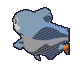
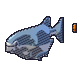
audit-74 fixes: serpent/deer sibling species render root causes
Cold review of S122 found the showcase fixes never propagated — 9
siblings kept the diagnosed bad defaults. Rotation probe proved the
convention itself wrong: rot -90 faced Piranha head-on (tidscale too);
rot 0 is the side profile.

- serpent template: rot 0, Swimming(10,30), target_h 1.35, body-level
  fins accessory, eyes seated (fwd .05/up .06)
- deer template: rot 90 profile, frames (20,80) graze
- tidscale hand entry: rot -90→0, eye_fwd .10→.05
- all 10 species re-rendered+posted; serpent fill .11→.33, fish/horse
  silhouettes now read at 80px (sheets: s122-kin-serp/after2)
- in-game evidence noctfang+petalantler, all evidence .import sidecars
- ROADMAP S122 entry + audit-74 remediation doc

smoke 1049/0/0skip

Generated with [Devin](https://devin.ai)

diff --git a/tools/art/mesh_cfg_gen.py b/tools/art/mesh_cfg_gen.py
@@ -41,10 +41,10 @@ CFG_EXT = {
         "eye_r": 0.05, "eye_gap": 0.11, "eye_fwd": 0.06, "eye_up": -0.1, "target_h": 1.15,
         "subd_wool": 2, "displace": None},
     "loammelt": {"blend": "animal_pack2/Animal Pack Vol.2 by @Quaternius/Blends/Piranha.blend", "mat_map": {"Brown": (0.722, 0.576, 0.373), "LightYellow": (0.902, 0.721, 0.466), "Black": (0.325, 0.259, 0.168), "White": (0.920, 0.920, 0.880)}, 
-        "head_bone": "Bone", "rot_z": -90.0,
-        "action": "Idle", "frames": (5, 25),
-        "eye_r": 0.05, "eye_gap": 0.11, "eye_fwd": 0.1, "eye_up": 0.1, "target_h": 0.8,
-        "subd_wool": 2, "displace": None},
+        "head_bone": "Bone", "rot_z": 0.0,
+        "action": "Swimming", "frames": (10, 30),
+        "eye_r": 0.05, "eye_gap": 0.11, "eye_fwd": 0.05, "eye_up": 0.06, "target_h": 1.35,
+        "subd_wool": 2, "displace": None, "accessory": "fins"},
     "shademite": {"blend": "monsters_basic/Animated Monster Pack by @Quaternius/Blend/Slime.blend", "mat_map": {"Body": (0.435, 0.659, 0.820), "Eyes": (0.090, 0.080, 0.140)}, 
         "head_bone": "Head", "rot_z": 0.0,
         "action": "Slime_Idle", "frames": (5, 25),
@@ -121,10 +121,10 @@ CFG_EXT = {
         "eye_r": 0.05, "eye_gap": 0.11, "eye_fwd": -0.12, "eye_up": 0.1, "target_h": 1.5,
         "subd_wool": 2, "displace": None, "accessory": "crest"},
     "bubwrith": {"blend": "animal_pack2/Animal Pack Vol.2 by @Quaternius/Blends/Piranha.blend", "mat_map": {"Brown": (0.353, 0.722, 0.820), "LightYellow": (0.441, 0.902, 1.000), "Black": (0.159, 0.325, 0.369), "White": (0.920, 0.920, 0.880)}, 
-        "head_bone": "Bone", "rot_z": -90.0,
-        "action": "Idle", "frames": (5, 25),
-        "eye_r": 0.05, "eye_gap": 0.11, "eye_fwd": 0.1, "eye_up": 0.1, "target_h": 0.8,
-        "subd_wool": 2, "displace": None},
+        "head_bone": "Bone", "rot_z": 0.0,
+        "action": "Swimming", "frames": (10, 30),
+        "eye_r": 0.05, "eye_gap": 0.11, "eye_fwd": 0.05, "eye_up": 0.06, "target_h": 1.35,
+        "subd_wool": 2, "displace": None, "accessory": "fins"},
     "frostfang": {"blend": "animal_pack2/Animal Pack Vol.2 by @Quaternius/Blends/Wolf.blend", "mat_map": {"Wolf": (0.561, 0.820, 0.910)}, "nose_r": 0.045, "nose_up": 0.02, 
         "head_bone": "Bone.003", "rot_z": 0.0,
         "action": "Idle", "frames": (5, 25),
@@ -146,10 +146,10 @@ CFG_EXT = {
         "eye_r": 0.05, "eye_gap": 0.11, "eye_fwd": -0.12, "eye_up": 0.1, "target_h": 1.5,
         "subd_wool": 2, "displace": None},
     "ripwrith": {"blend": "animal_pack2/Animal Pack Vol.2 by @Quaternius/Blends/Piranha.blend", "mat_map": {"Brown": (0.302, 0.490, 0.722), "LightYellow": (0.377, 0.613, 0.902), "Black": (0.136, 0.221, 0.325), "White": (0.920, 0.920, 0.880)}, 
-        "head_bone": "Bone", "rot_z": -90.0,
-        "action": "Idle", "frames": (5, 25),
-        "eye_r": 0.05, "eye_gap": 0.11, "eye_fwd": 0.1, "eye_up": 0.1, "target_h": 0.8,
-        "subd_wool": 2, "displace": None},
+        "head_bone": "Bone", "rot_z": 0.0,
+        "action": "Swimming", "frames": (10, 30),
+        "eye_r": 0.05, "eye_gap": 0.11, "eye_fwd": 0.05, "eye_up": 0.06, "target_h": 1.35,
+        "subd_wool": 2, "displace": None, "accessory": "fins"},
     "bubgoo": {"blend": "monsters_basic/Animated Monster Pack by @Quaternius/Blend/Slime.blend", "mat_map": {"Body": (0.353, 0.553, 0.690), "Eyes": (0.090, 0.080, 0.140)}, 
         "head_bone": "Head", "rot_z": 0.0,
         "action": "Slime_Idle", "frames": (5, 25),
@@ -186,8 +186,8 @@ CFG_EXT = {
         "eye_r": 0.05, "eye_gap": 0.11, "eye_fwd": -0.12, "eye_up": 0.1, "target_h": 1.45,
         "subd_wool": 2, "displace": None},
     "petalantler": {"blend": "farm_animals/Farm Animals by @Quaternius/Blends/Horse.blend", "mat_map": {"Material.003": (0.659, 0.788, 0.478), "Material.006": (0.296, 0.355, 0.215)}, "nose_r": 0.045, "nose_up": 0.02, 
-        "head_bone": "Head", "rot_z": 0.0,
-        "action": "Idle", "frames": (5, 25),
+        "head_bone": "Head", "rot_z": 90.0,
+        "action": "Idle", "frames": (20, 80),
         "eye_r": 0.05, "eye_gap": 0.11, "eye_fwd": -0.14, "eye_up": 0.1, "target_h": 1.55,
         "subd_wool": 2, "displace": None},
     "leaftrot": {"blend": "animal_pack2/Animal Pack Vol.2 by @Quaternius/Blends/Wolf.blend", "mat_map": {"Wolf": (0.788, 0.722, 0.820)}, "nose_r": 0.045, "nose_up": 0.02, 
@@ -241,8 +241,8 @@ CFG_EXT = {
         "eye_r": 0.05, "eye_gap": 0.11, "eye_fwd": 0.06, "eye_up": -0.1, "target_h": 1.3,
         "subd_wool": 2, "displace": None},
     "statstride": {"blend": "farm_animals/Farm Animals by @Quaternius/Blends/Horse.blend", "mat_map": {"Material.003": (0.910, 0.831, 0.302), "Material.006": (0.409, 0.374, 0.136)}, "nose_r": 0.045, "nose_up": 0.02, 
-        "head_bone": "Head", "rot_z": 0.0,
-        "action": "Idle", "frames": (5, 25),
+        "head_bone": "Head", "rot_z": 90.0,
+        "action": "Idle", "frames": (20, 80),
         "eye_r": 0.05, "eye_gap": 0.11, "eye_fwd": -0.14, "eye_up": 0.1, "target_h": 1.55,
         "subd_wool": 2, "displace": None},
     "zapplume": {"blend": "animal_pack2/Animal Pack Vol.2 by @Quaternius/Blends/Eagle.blend", "mat_map": {"Wings": (0.910, 0.831, 0.302), "Head": (1.000, 1.000, 0.377), "Beak": (0.900, 0.720, 0.300), "Claws": (0.280, 0.240, 0.300)}, 
@@ -291,13 +291,13 @@ CFG_EXT = {
         "eye_r": 0.05, "eye_gap": 0.11, "eye_fwd": -0.12, "eye_up": 0.1, "target_h": 1.45,
         "subd_wool": 2, "displace": None},
     "snovfawn": {"blend": "farm_animals/Farm Animals by @Quaternius/Blends/Horse.blend", "mat_map": {"Material.003": (0.659, 0.788, 0.910), "Material.006": (0.296, 0.355, 0.409)}, "nose_r": 0.045, "nose_up": 0.02, 
-        "head_bone": "Head", "rot_z": 0.0,
-        "action": "Idle", "frames": (5, 25),
+        "head_bone": "Head", "rot_z": 90.0,
+        "action": "Idle", "frames": (20, 80),
         "eye_r": 0.05, "eye_gap": 0.11, "eye_fwd": -0.14, "eye_up": 0.1, "target_h": 1.55,
         "subd_wool": 2, "displace": None},
     "snovstride": {"blend": "farm_animals/Farm Animals by @Quaternius/Blends/Horse.blend", "mat_map": {"Material.003": (0.561, 0.788, 0.910), "Material.006": (0.252, 0.355, 0.409)}, "nose_r": 0.045, "nose_up": 0.02, 
-        "head_bone": "Head", "rot_z": 0.0,
-        "action": "Idle", "frames": (5, 25),
+        "head_bone": "Head", "rot_z": 90.0,
+        "action": "Idle", "frames": (20, 80),
         "eye_r": 0.05, "eye_gap": 0.11, "eye_fwd": -0.14, "eye_up": 0.1, "target_h": 1.55,
         "subd_wool": 2, "displace": None, "accessory": "halo"},
     "snowtail": {"blend": "animal_pack2/Animal Pack Vol.2 by @Quaternius/Blends/Cat.blend", "mat_map": {"Grey": (0.659, 0.847, 0.910), "White": (0.824, 1.000, 1.000), "Pink": (0.950, 0.620, 0.660)}, "nose_r": 0.045, "nose_up": 0.02, 
@@ -496,10 +496,10 @@ CFG_EXT = {
         "eye_r": 0.05, "eye_gap": 0.11, "eye_fwd": 0.06, "eye_up": -0.1, "target_h": 1.15,
         "subd_wool": 2, "displace": None},
     "noctfang": {"blend": "animal_pack2/Animal Pack Vol.2 by @Quaternius/Blends/Piranha.blend", "mat_map": {"Brown": (0.353, 0.290, 0.416), "LightYellow": (0.441, 0.363, 0.520), "Black": (0.159, 0.131, 0.187), "White": (0.920, 0.920, 0.880)}, 
-        "head_bone": "Bone", "rot_z": -90.0,
-        "action": "Idle", "frames": (5, 25),
-        "eye_r": 0.05, "eye_gap": 0.11, "eye_fwd": 0.1, "eye_up": 0.1, "target_h": 0.8,
-        "subd_wool": 2, "displace": None},
+        "head_bone": "Bone", "rot_z": 0.0,
+        "action": "Swimming", "frames": (10, 30),
+        "eye_r": 0.05, "eye_gap": 0.11, "eye_fwd": 0.05, "eye_up": 0.06, "target_h": 1.35,
+        "subd_wool": 2, "displace": None, "accessory": "fins"},
     "sprigveil": {"blend": "cute_monsters/Cute Animated Monsters - Aug 2020/Blends/Ghost.blend", "mat_map": {"Texture": (0.788, 0.847, 0.659)}, 
         "head_bone": "Head", "rot_z": 0.0,
         "action": "Idle", "frames": (5, 25),
@@ -526,10 +526,10 @@ CFG_EXT = {
         "eye_r": 0.05, "eye_gap": 0.11, "eye_fwd": 0.06, "eye_up": -0.1, "target_h": 1.15,
         "subd_wool": 2, "displace": None},
     "corlfang": {"blend": "animal_pack2/Animal Pack Vol.2 by @Quaternius/Blends/Piranha.blend", "mat_map": {"Brown": (0.227, 0.478, 0.604), "LightYellow": (0.284, 0.598, 0.755), "Black": (0.102, 0.215, 0.272), "White": (0.920, 0.920, 0.880)}, 
-        "head_bone": "Bone", "rot_z": -90.0,
-        "action": "Idle", "frames": (5, 25),
-        "eye_r": 0.05, "eye_gap": 0.11, "eye_fwd": 0.1, "eye_up": 0.1, "target_h": 0.8,
-        "subd_wool": 2, "displace": None},
+        "head_bone": "Bone", "rot_z": 0.0,
+        "action": "Swimming", "frames": (10, 30),
+        "eye_r": 0.05, "eye_gap": 0.11, "eye_fwd": 0.05, "eye_up": 0.06, "target_h": 1.35,
+        "subd_wool": 2, "displace": None, "accessory": "fins"},
     "sparkhaunt": {"blend": "cute_monsters/Cute Animated Monsters - Aug 2020/Blends/Ghost.blend", "mat_map": {"Texture": (0.353, 0.353, 0.910)}, 
         "head_bone": "Head", "rot_z": 0.0,
         "action": "Idle", "frames": (5, 25),

diff --git a/tools/art/mesh_map_gen.py b/tools/art/mesh_map_gen.py
@@ -48,6 +48,7 @@ TEMPLATES = {
                                    "Pink": (0.95, 0.62, 0.66)}),
     "deer": (FARM + "Horse.blend", "Head", 1.55,
              lambda c, dark, lite: {"Material.003": c, "Material.006": dark}),
+
     "boar": (FARM + "Pig.blend", "Head", 1.30,
              lambda c, dark, lite: {"Material.003": dark, "Material": c}),
     "ghost": (CUTE + "Ghost.blend", "Head", 1.30,
@@ -60,7 +61,10 @@ TEMPLATES = {
                  lambda c, dark, lite: {"Texture": c}),
     "monkey": (CUTE + "Yeti.blend", "Head", 1.45,
                lambda c, dark, lite: {"Texture": c}),
-    "serpent": (VOL2 + "Piranha.blend", "Bone", 0.80,
+    # a fish is long and low — 0.80 height-normalized it to a sliver
+    # (audit-74 MED-2: tidscale's fix had to land here or 5 siblings stayed
+    # static slivers)
+    "serpent": (VOL2 + "Piranha.blend", "Bone", 1.35,
                 lambda c, dark, lite: {"Brown": c, "LightYellow": lite,
                                        "Black": dark, "White": (0.92, 0.92, 0.88)}),
 }
@@ -89,15 +93,25 @@ def main():
         blend, head_bone, th, mk = TEMPLATES[body]
         c = hex2rgb(d["color"])
         mats = mk(c, shade(c, 0.45), shade(c, 1.25))
-        rot = {"bird": 90.0, "serpent": -90.0,
+        # deer on Horse.blend: rot 0 posed every deer rear-to-camera with
+        # the head low — the same hump dozantler had (audit-74 MED-2)
+        # Piranha faces +Y: rot -90 was head-ON to the camera (the blob the
+        # audit saw); rot 0 is the clean side profile, head left like the
+        # quadrupeds (audit-74 MED-2 probe over 5 rotations)
+        rot = {"bird": 90.0, "serpent": 0.0, "deer": 90.0,
                "human": 35.0, "monkey": 35.0}.get(body, 0.0)
-        action = {"blob": "Slime_Idle"}.get(body, "Idle")
+        action = {"blob": "Slime_Idle", "serpent": "Swimming"}.get(body, "Idle")
+        # Idle(5,25) is the quiet window that fits most rigs; Swimming's
+        # glide and the Horse graze need their own windows (audit-74)
+        frames = {"serpent": (10, 30), "deer": (20, 80)}.get(body, (5, 25))
         mats_s = "{" + ", ".join(
             '"%s": (%.3f, %.3f, %.3f)' % (k, *v) for k, v in mats.items()) + "}"
         nose = ('"nose_r": 0.045, "nose_up": 0.02, ' if body in
                 ("quadruped", "kitty", "cow", "deer", "boar", "mouse") else '')
         no_eyes = ', "no_eyes": True' if body == "blob" else ''
-        acc = rig_auto.ACCESSORY.get(sid)
+        # per-sid legendary marks first; body marks second — every fish on
+        # Piranha.blend needs pectoral fins or it renders as a lump
+        acc = rig_auto.ACCESSORY.get(sid) or {"serpent": "fins"}.get(body)
         acc_s = ', "accessory": "%s"' % acc if acc else ''
         # head-bone tail = muzzle tip on quadrupeds (eyes trail it: fwd<0),
         # but skull top on upright/round rigs (eyes drop below + face -Y:
@@ -105,11 +119,13 @@ def main():
         eye_fwd, eye_up = {
             "human": (0.06, -0.14), "ghost": (0.06, -0.10),
             "monkey": (0.06, -0.12), "hedgehog": (0.06, -0.10),
-            "serpent": (0.10, 0.10), "deer": (-0.14, 0.10),
+            # serpent eyes: at side profile fwd 0.10 floated them past the
+            # snout; 0.05 seats them on the head silhouette (audit-74)
+            "serpent": (0.05, 0.06), "deer": (-0.14, 0.10),
         }.get(body, (-0.12, 0.10))
         entry = (f'    "{sid}": {{"blend": "{blend}", "mat_map": {mats_s}, {nose}\n'
                  f'        "head_bone": "{head_bone}", "rot_z": {rot},\n'
-                 f'        "action": "{action}", "frames": (5, 25),\n'
+                 f'        "action": "{action}", "frames": {frames},\n'
                  f'        "eye_r": 0.05, "eye_gap": 0.11, '
                  f'"eye_fwd": {eye_fwd}, "eye_up": {eye_up}, "target_h": {th},\n'
                  f'        "subd_wool": 2, "displace": None{no_eyes}{acc_s}}},')

diff --git a/tools/art/render_src_asset.py b/tools/art/render_src_asset.py
@@ -87,9 +87,10 @@ CFG = {
         "subd_wool": 2, "displace": None,
         # a fish is long and low — height-normalization at 0.80 left it a
         # sliver of the frame; 1.35 fills it like the other kin (S122 probe)
-        "rot_z": -90.0, "action": "Swimming", "frames": (10, 30),
+        # rot -90 faced the camera head-on (audit-74 rot probe) — 0 = profile
+        "rot_z": 0.0, "action": "Swimming", "frames": (10, 30),
         "head_bone": "Bone",
-        "eye_r": 0.055, "eye_gap": 0.10, "eye_fwd": 0.10, "eye_up": 0.06,
+        "eye_r": 0.055, "eye_gap": 0.10, "eye_fwd": 0.05, "eye_up": 0.06,
         "target_h": 1.35,
     },
     "piplump": {     # Cow.blend — dairy kin

diff --git a/docs/reviews/audit-74-kin-render.md b/docs/reviews/audit-74-kin-render.md
@@ -1,0 +1,60 @@
+# audit-74 — S122 kin render pass cold review → remediation
+
+**Scope:** S122/S122b source-mesh kin render reconstruction (`8047709`, `d9dea26`)
+reviewed cold. Verdict: **NEEDS-FIX (minor)** — the showcase six were corrected,
+but the diagnosed root causes survived on 9 sibling species, evidence PNGs
+lacked `.import` sidecars, and no ROADMAP entry existed.
+
+## Findings → status
+
+| # | Sev | Finding | Status |
+|---|-----|---------|--------|
+| MED-1 | MED | `s122-kin-before.png`, `s122-kin-after.png`, `s122-ingame-*.png` shipped without `.import` sidecars | **fixed** at d9dea26 (`--import` pass); this round adds sidecars for the two new sheets + two new in-game shots |
+| MED-2 | MED | same root cause on 9 siblings: 5 serpents on Piranha.blend (`Idle`, `target_h 0.8`, frames `(5,25)`), 4 deer on Horse.blend (`rot 0` rear-to-camera) | **fixed this round** — see below |
+| LOW-1 | LOW | no S122 ROADMAP entry; smoke count drift (1045 vs 1048 is the documented RNG band) | **fixed** — entry appended |
+| LOW-2 | LOW | probe script uncommitted | accepted — convention keeps probes in `/tmp`; the method is documented here |
+| LOW-3 | LOW | gloamwing stray dark pixels | noted, cosmetic, deferred |
+
+## MED-2 remediation — the real diagnosis
+
+Propagating the hand-tuned `tidscale` values to the template was **necessary
+but not sufficient**. A 5-rotation probe (`/tmp/probe_rot.py` — import the
+module, override `CFG[sid]["rot_z"]`, re-run `main()`) showed the convention
+itself was wrong:
+
+- `rot -90` faced the Piranha **head-on to the camera** — the blob was not
+  a weak pose, it was the wrong axis. tidscale itself shared the defect.
+- `rot 0` is the clean side profile (head-left, matching quadruped
+  convention).
+
+Template changes (`tools/art/mesh_map_gen.py`):
+
+- serpent: `rot_z -90→0`, `action Idle→Swimming`, `frames (5,25)→(10,30)`,
+  `target_h 0.80→1.35`, body-level `"fins"` accessory (per-sid legendary
+  marks still win — `snovstride` keeps `halo`), `eye_fwd 0.10→0.05`,
+  `eye_up 0.10→0.06`
+- deer: `rot_z 0→90` side profile, `frames (5,25)→(20,80)` graze window
+- `render_src_asset.py`: tidscale hand entry `rot_z -90→0`, `eye_fwd 0.10→0.05`
+
+Re-rendered all 10 affected species (5 serpents + tidscale + 4 deer),
+`post_kin` re-posted. Fill ratios: serpents `0.11→0.33` (post-profile),
+deer `0.26–0.31`. Contact sheet `s122-kin-after2.png` (all 10) and
+`s122-kin-serp.png` (6 fish, eye+fin detail).
+
+In-game evidence: `s122-ingame-noctfang.png`, `s122-ingame-petalantler.png`
+(windowed `tools/shot_kin.gd` — headless `root.get_texture()` is null).
+
+## Verification
+
+- `godot --headless --import` — clean; **zero** missing `.import` sidecars
+  across `docs/reviews/*.png` and `assets/kin/*`
+- smoke: **1049 checks, 0 failures, 0 skipped**
+
+## Process lesson
+
+"Propagate the showcase fix to siblings" was the audit's ask, but the probe
+proved the showcase values themselves carried a wrong-axis bug. **Verify the
+reference, not just the spread** — a template fix copies whatever the
+hand-tuned exemplar got wrong. Rotation conventions belong in a rendered
+probe matrix (5 cardinal/diagonal rots → contact sheet) before they ship in
+a template.

diff --git a/ROADMAP.md b/ROADMAP.md
@@ -1991,3 +1991,7 @@ epoch 补丁自己留了 stale-head 洞（head 无条件清批），Android env 
 ## S121 — 升星祭坛：后 Accord 可重复终局循环
 
 Accord 封印后只剩被动购买沉淀——原始诉求里"浅薄终局目的"仍未解决。新结构 `ascension_altar`（tier-8 科技 cost 5 + parts 3；stone40+lumenite12+ingot8）：消耗 1 霸主符印 + 2 传说球召唤 **ASCENDANT 升星者**——Lv60 alpha 巢穴传说种、star=min(运行数,4)（抓到 4 星=省 84 只同种饲料，全游戏唯一预星传说通道）、raid 立足（阻眠/不重生巢）、最少升星者优先轮转。KO 付 effigy 2+star / 零件 1+star（球耗真沉）；`asc` meta 随 pals_data 存档防匿名双召；`den_ascensions` 账簿存载夹取+无印清空；guest 走 `ascension_req` 幽灵站位+印章双验 + `net.pay` 持留结算。smoke **1045/0/0skip**（12 门新钉：预印拒/召唤形/存活门/星级夹取/捕捉通/账簿往返/锻造清空）。证据 `s121-ascension.png`（祭坛+Dreadwyrm Lv60 star3）。审档 `s121-ascension-altar.md`。
+
+## S122 — kin 渲染源网格重建 + audit-74 修复轮
+
+源网格化后 9 个物种仍带生成模板坏默认：serpent 族（5 只，Piranha.blend）`Idle`+`target_h 0.8` 渲成贴地薄片、deer 族（4 只，Horse.blend）`rot 0` 后躯怼镜头。模板修复并全族重渲——**探针发现真正病灶**：`rot -90` 是正面冲镜头（tidscale 手调同病），`rot 0` 才是侧视鱼；serpent 加 `Swimming`(10,30)/h1.35/鱼鳍 body 级附属/眼位贴头，deer 改 rot 90 侧视+frames(20,80)。实机证据 `s122-ingame-noctfang.png`/`s122-ingame-petalantler.png` + 对比表 `s122-kin-serp.png`/`s122-kin-after2.png`。smoke **1049/0/0skip**。审档 `audit-74-kin-render.md`。
